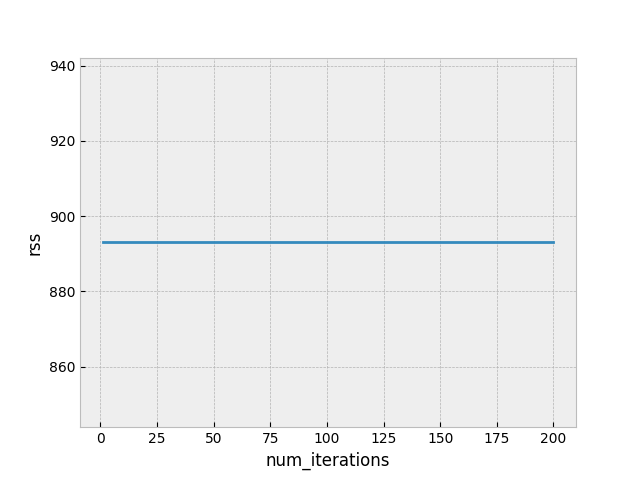
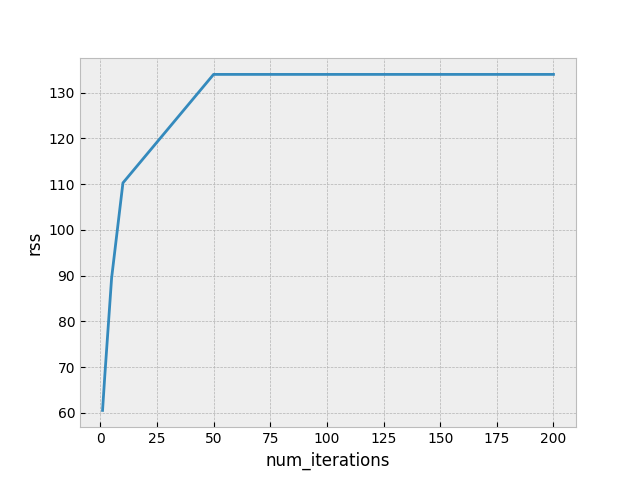
debugging bg nn (something is wrong)

diff --git a/src/bp_neural_network.py b/src/bp_neural_network.py
@@ -1,8 +1,6 @@
 import matplotlib.pyplot as plt
 plt.style.use('bmh')
 
-# add node class
-
 class Node():
     def __init__(self, index, is_bias=False):
         self.index = index
@@ -15,8 +13,9 @@ class NeuralNetwork():
 
     def __init__(self, pairs, weights, bias_nodes):
         
+        self.bias_nodes = bias_nodes
         self.num_nodes = max(elem for pair in pairs for elem in pair)
-        self.node_list = {index : Node(index, index in bias_nodes) for index in range(1, self.num_nodes + 1)}
+        self.node_list = {index : Node(index, index in self.bias_nodes) for index in range(1, self.num_nodes + 1)}
 
         self.pairs = [(self.node_list[a], self.node_list[b]) for a, b in pairs]
         self.initial_weights = {(self.node_list[pair[0]], self.node_list[pair[1]]) : weights[pair] for pair in pairs}
@@ -39,14 +38,14 @@ class NeuralNetwork():
             node.inputs  = {point:0 for point in self.data}
             node.outputs = {point:0 for point in self.data}
 
-    def run_gradient_descent(self, num_iterations, alpha=0.001):
+    def run_gradient_descent(self, num_iterations_list, alpha=0.001):
 
-        rss = [self.calc_rss(self.gradient_descent(self.initial_weights, n, alpha)) for n in num_iterations]
+        rss = [self.calc_rss(self.gradient_descent(self.copy_dict(self.initial_weights), n, alpha)) for n in num_iterations_list]
 
         # plot 1
 
         plt.figure(0)
-        plt.plot(num_iterations, rss)
+        plt.plot(num_iterations_list, rss)
         plt.xlabel('num_iterations')
         plt.ylabel('rss')
         plt.savefig('bp_num_iterations_vs_rss.png')
@@ -58,17 +57,20 @@ class NeuralNetwork():
 
         x_list = list(range(self.num_nodes + 1))
 
-        initial_y_list = [self.final_node_output(self.initial_weights, x) for x in x_list]
+        initial_y_list = [self.predict(self.initial_weights, x) for x in x_list]
         plt.plot(x_list, initial_y_list, label='initial regressor')
 
         final_weights = self.gradient_descent(self.initial_weights, 1000, alpha)
-        final_y_list = [self.final_node_output(final_weights, x) for x in x_list]
+        final_y_list = [self.predict(final_weights, x) for x in x_list]
         plt.plot(x_list, final_y_list, label='final regressor')
 
         plt.legend()
         plt.savefig('bp_data_vs_initial_regressor_vs_final_regressor.png')
 
         print('done')
+
+    def copy_dict(self, dictionary):
+        return {key:value for key, value in dictionary.items()}
 
     def row_of(self, node, rows):
         for x, row in enumerate(rows):
@@ -113,11 +115,31 @@ class NeuralNetwork():
                 node.inputs[point] = node_input
                 node.outputs[point] = self.f(node_input)
 
-    def final_node_output(self, weights, x):
-        node = self.node_list[self.num_nodes]
-        node_input = sum(list(node.inputs.values()))
-        return self.f(node_input)
-    
+    def predict(self, weights, x):
+
+        i = {}
+
+        for node in self.node_list.values():
+
+            if node.is_bias:
+                i[node.index] = 1
+            elif node.index in self.rows[0]:
+                i[node.index] = x
+            else:
+                i[node.index] = sum(weights[(a, b)] * self.f(i[a.index]) for a, b in self.initial_weights if b == node)
+
+        print(x)
+        print({(pair[0].index, pair[1].index) : round(weight) for pair, weight in weights.items()})
+        print({k:round(v) for k, v in i.items()}, '\n')
+
+        return self.f(i[self.num_nodes])
+
+    # def predict(self, weights, x):
+        
+    #     node = self.node_list[self.num_nodes]
+    #     node_input = node.inputs[point]
+    #     return self.f(node_input)
+
     def calc_dRSS_dn(self):
 
         final_node = self.node_list[self.num_nodes]
@@ -133,13 +155,13 @@ class NeuralNetwork():
         for a, b in self.pairs:
             for point in self.data:
                 self.dRSS_dw[(a, b)] += b.dRSS_dn * self.f_prime(b.inputs[point]) * a.outputs[point]
-    
+
     def calc_rss(self, weights):
         rss = 0
         for x, y in self.data:
-            rss += (self.final_node_output(weights, x) - y) ** 2
+            rss += (self.predict(weights, x) - y) ** 2
         return rss
-    
+
     def gradient_descent(self, weights, num_iterations, alpha):
         for _ in range(num_iterations):
             weights = {pair:weight - alpha * self.dRSS_dw[pair] for pair, weight in weights.items()}

diff --git a/back_propagation_old.py b/back_propagation_old.py
@@ -32,7 +32,7 @@ def get_inputs(weights, input_data=data):
 
         i = {}
 
-        for node_index in node_list:
+        for node_index in nodes:
 
             if node_index in bias_nodes:
                 i[node_index] = 1
@@ -53,10 +53,10 @@ outputs = {point:{index:f(i) for index, i in inputs[point].items()} for point in
 
 # calculating neural gradients
 
-dRSS_dn = {x:0 for x in node_list}
+dRSS_dn = {x:0 for x in nodes}
 dRSS_dn[num_nodes] = sum(2 * (outputs[point][num_nodes] - point[1]) for point in data)
 
-for index in node_list[0:-1][::-1]:
+for index in nodes[0:-1][::-1]:
     rows_index = [x for x, row in enumerate(rows) if index in row][0]
     for point in data:
         for index_above in rows[rows_index + 1]:

diff --git a/tests/test_bp_neural_network.py b/tests/test_bp_neural_network.py
@@ -12,7 +12,7 @@ data = [(0, 5), (2, 3), (5, 10)]
 f = lambda x: max(0, x)
 f_prime = lambda x: 0 if x <= 0 else 1
 
-num_iterations = [1, 2, 5, 10, 50, 100, 200]
+num_iterations_list = [1, 2, 5, 10, 50, 100, 200]
 alpha = 0.001
 
 nn = NeuralNetwork(pairs, initial_weights, bias_nodes)
@@ -20,4 +20,4 @@ nn.fit(data, f, f_prime)
 nn.calc_inputs()
 nn.calc_dRSS_dn()
 nn.calc_dRSS_dw()
-nn.run_gradient_descent(num_iterations, alpha)
+nn.run_gradient_descent(num_iterations_list, alpha)
